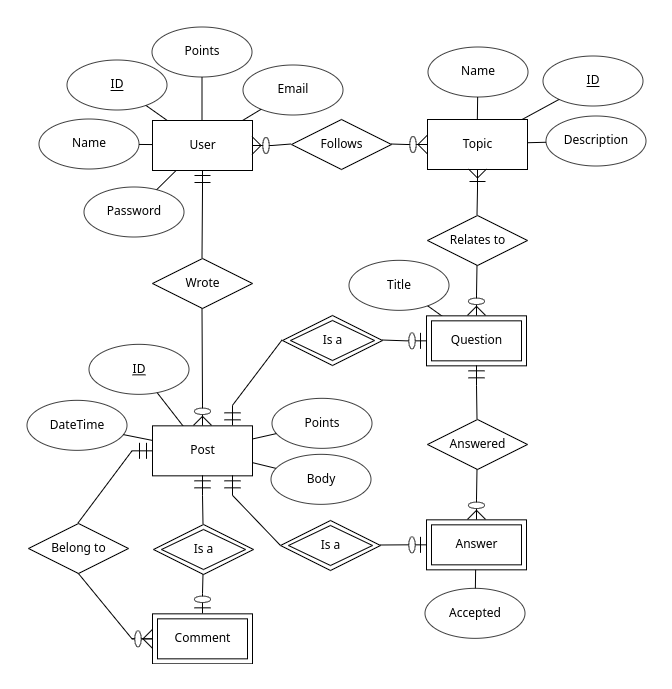
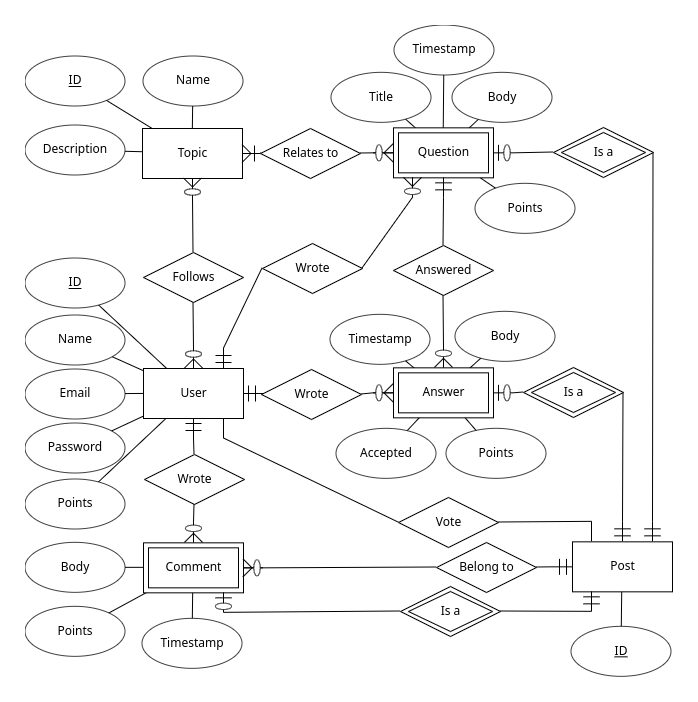
Updated erd

diff --git a/latex/first-stage/2.erd.tex b/latex/first-stage/2.erd.tex
@@ -4,7 +4,9 @@ We will have six entities: user, post, question, answer, comment, and topic.
 
 A user is any individual writing a post on Ask Us. The user entity will have five attributes: ID, name, email, password, and points. A user's points are the sum of all the points of all their posts. ID will be the primary key.
 
-A post is anything a user writes. This can either be a question, answer, or comment. The post entity wil have four attributes: ID, body, date-time, and points. Here, points is the number of points that have been awarded to any specific post. ID is the primary key.
+A post is anything a user writes. This can either be a question, answer, or comment. The post entity will only have an ID, which is the primary key.
+
+Questions, answers, and comments will all have the following attributes, aside from the ones we will specify below. They will have a body, which is the main text that makes up that post, they must have a count of the points that they have been awarded by users
 
 A question is what a user would post if he wanted to receive a solution to his inquiry. The question entity has one attribute called title, as well as the attributes it `inherits' from post. Since it is a weak entity, its primary key is the post's ID.
 
@@ -33,7 +35,7 @@ Lastly, questions are related to topics. A question must have at least one topic
 
 Figure \ref{erd} shows the entity relationship diagram for the database we are to make for Ask Us.
 
-\begin{figure}[htb]
+\begin{figure}[p]
 	\centering
 	\includegraphics[width=\linewidth]{../../ERD/erd.png}
 	\caption{An ERD for the database for Ask Us}
